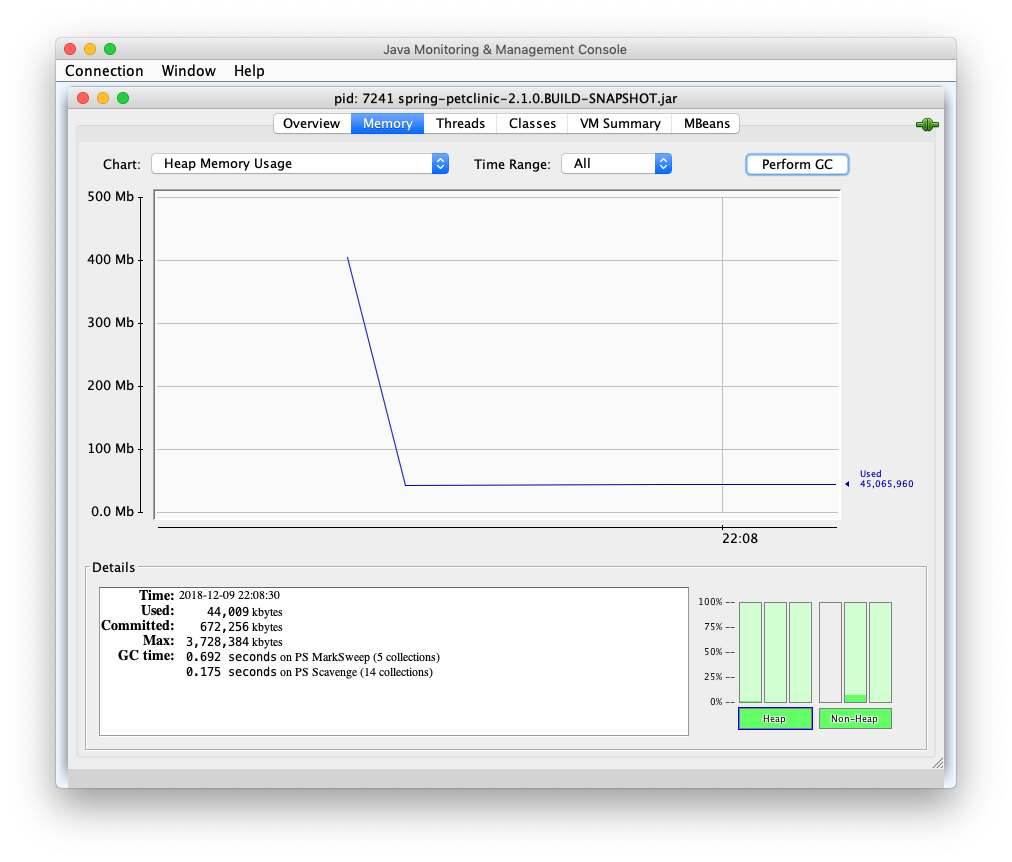
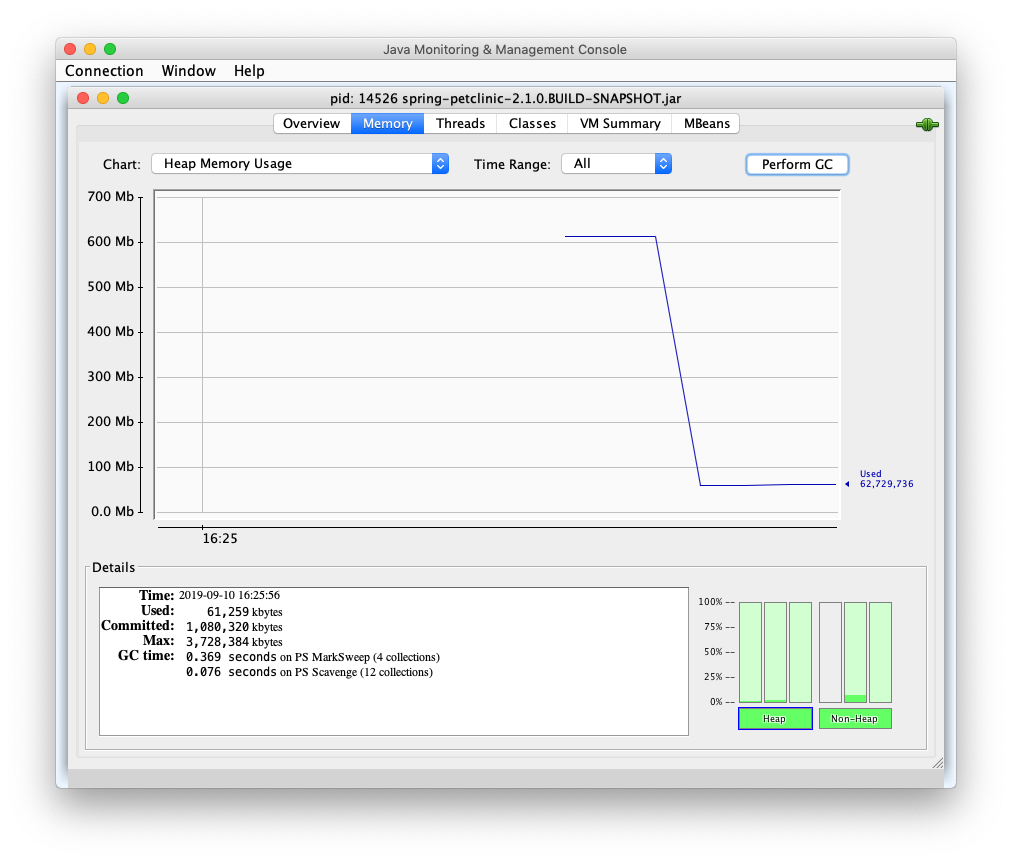
Update readme

diff --git a/README.md b/README.md
@@ -1,0 +1,160 @@
+# Introduction
+
+The aim of this repo is to measure some features of an Spring Boot application and its Docker image. 
+Instead of creating a new Spring Boot demo from scratch, it is based on 
+[Spring PetClinic](https://github.com/spring-projects/spring-petclinic).
+
+#  Size
+
+## Spring Boot artifact's size
+
+Build PetClinic application:
+
+```
+git clone https://github.com/wearearima/spring-boot-docker-size.git
+cd spring-boot-docker-size
+./mvnw clean package
+```
+
+Measure the jar files:
+
+```
+ls -lh target/*.jar*
+```
+
+Result:
+
+```
+-rw-r--r--  1 inigotelleria  staff    43M Sep  2 17:05 target/spring-petclinic-2.1.0.BUILD-SNAPSHOT.jar
+-rw-r--r--  1 inigotelleria  staff   371K Sep  2 17:05 target/spring-petclinic-2.1.0.BUILD-SNAPSHOT.jar.original
+```
+
+The file named `spring-petclinic-2.1.0.BUILD-SNAPSHOT` is the resulting fat jar because it includes
+PetClinic's code and its dependencies. The other file, suffixed `.original`, is just PetClinic's code
+without its dependencies. The result is that our code size is `371KB` and the dependencies' `43MB`. 
+
+## Docker image's size
+
+Build PetClinic's Docker image:
+
+```
+./mvnw dockerfile:build
+```
+
+Measure the image size:
+
+```
+docker image ls | grep spring-petclinic
+```
+
+Result:
+
+```
+org.springframework.samples/spring-petclinic                     latest                  f64e33676fba        35 seconds ago      150MB
+```
+
+We can see that size of the artifact has increased from `43MB` to `150MB`. This is mainly because the 
+Docker image includes the JDK and Linux images. Run this command to check it:
+
+```
+docker image history org.springframework.samples/spring-petclinic
+```
+
+The result shows the different layers added to the Docker image:
+
+```
+Inigos-MacBook-Pro:spring-petclinic inigo$ docker image history org.springframework.samples/spring-petclinic
+IMAGE               CREATED              CREATED BY                                      SIZE                COMMENT
+f64e33676fba        About a minute ago   /bin/sh -c #(nop)  CMD ["/bin/sh" "-c" "/usr…   0B                  
+514ea9d949f4        About a minute ago   /bin/sh -c #(nop)  EXPOSE 8080                  0B                  
+0c5656961ef9        About a minute ago   /bin/sh -c #(nop) COPY file:f694d1e78b9e3890…   44.9MB              
+5a0aa4f6ec7b        About a minute ago   /bin/sh -c #(nop)  ARG JAR_FILE                 0B                  
+b055dd6e77e1        About a minute ago   /bin/sh -c #(nop)  VOLUME [/tmp]                0B                  
+a3562aa0b991        3 months ago         /bin/sh -c set -x  && apk add --no-cache   o…   99.3MB              
+<missing>           3 months ago         /bin/sh -c #(nop)  ENV JAVA_ALPINE_VERSION=8…   0B                  
+<missing>           3 months ago         /bin/sh -c #(nop)  ENV JAVA_VERSION=8u212       0B                  
+<missing>           3 months ago         /bin/sh -c #(nop)  ENV PATH=/usr/local/sbin:…   0B                  
+<missing>           3 months ago         /bin/sh -c #(nop)  ENV JAVA_HOME=/usr/lib/jv…   0B                  
+<missing>           3 months ago         /bin/sh -c {   echo '#!/bin/sh';   echo 'set…   87B                 
+<missing>           3 months ago         /bin/sh -c #(nop)  ENV LANG=C.UTF-8             0B                  
+<missing>           3 months ago         /bin/sh -c #(nop)  CMD ["/bin/sh"]              0B                  
+<missing>           3 months ago         /bin/sh -c #(nop) ADD file:a86aea1f3a7d68f6a…   5.53MB
+```
+
+The `5.53MB` image is the Alpine Linux image and the `99.3MB` image is the JDK8 image. The sum of all them results in an image of
+`150MB` which includes Linux OS, JDK8, PetClinic's code and dependencies' jar.  
+
+> Different Linux image comparison at https://github.com/gliderlabs/docker-alpine#why 
+
+# Startup time
+
+Run PetClinic application with this command:
+
+```
+java -jar target/spring-petclinic-2.1.0.BUILD-SNAPSHOT.jar
+```
+
+The applications starts en `5,54 seconds` using AdoptOpenJDK 1.8.0_222-b10:
+
+```
+Started PetClinicApplication in 5.54 seconds (JVM running for 5.902)
+```
+
+# Memory usage
+
+## Spring Boot artifact's memory usage
+
+After navigating through the application to make sure all beans are loaded, open `JConsole` or other profiler such as 
+YourKit. Measure the heap after executing Garbage Collector (GC). 
+
+![jconsole-result](jconsole/result.png)
+
+With no load the application's heap consumption is around `60MB` . However, the memory consumption is bigger than just the
+heap, so let's measure it using ``ps`` command:
+
+```
+Inigos-MacBook-Pro:spring-boot-docker-size inigo$ ps aux 14526
+USER    PID  %CPU %MEM      VSZ    RSS   TT  STAT STARTED      TIME COMMAND
+inigo   14526   0.0  4.0 10241740 669648 s004  S+    4:25PM   0:33.05 /usr/bin/java -jar target/spring-petclinic-2.1.0.BUILD-SNAPSHOT.jar```
+```
+
+We can see that PetClinic's process actually is using almost `650MB` of memory.  
+
+## Docker image's memory usage
+
+Run a PetClinic container with this command:
+
+```
+docker run -p 8080:8080 org.springframework.samples/spring-petclinic
+```
+
+Executing ``docker stats`` we can find out how much memory is using the container with no load:
+
+```
+CONTAINER ID        NAME                CPU %               MEM USAGE / LIMIT     MEM %               NET I/O             BLOCK I/O           PIDS
+970acf08cdb0        jovial_khayyam      0.48%               586.3MiB / 5.818GiB   9.84%               2.7kB / 8.74kB      164kB / 0B          33
+```
+
+So, the container uses ``586MB`` of memory. 
+
+> Interesting resource about measuring Spring Boot: https://spring.io/blog/2015/12/10/spring-boot-memory-performance
+
+# Summary
+
+| Feature                                           |                   |
+| ------------------------------------------------- | ----------------- |
+| Spring Boot App disk usage                        | 43M               |
+| Spring Boot App disk usage (without dependencies) | 371KB             |
+| Docker Container disk usage                       | 150MB             |
+| Spring Boot App startup time                      | 5,54 seconds      |
+| Spring Boot App heap consumption                  | 60MB              |
+| Spring Boot App memory usage                      | 650MB             |
+| Docker Container memory usage                     | 586MB             |
+
+# Credits
+
+Original PetClinic by https://www.spring.io
+
+Docker configuration by https://www.arima.eu
+
+![ARIMA Software Design](https://arima.eu/arima-claim.png)
